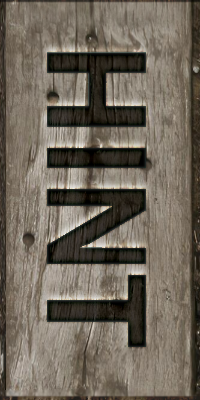
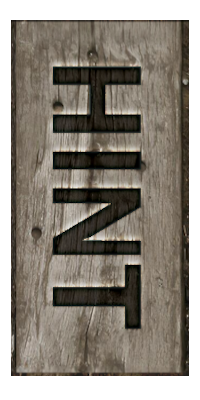
hint button visual success

diff --git a/kiosk/qt_overlay.py b/kiosk/qt_overlay.py
@@ -299,7 +299,7 @@ class Overlay:
 
             # Create a separate window for the button
             cls._button_window = QWidget(cls._window)
-            cls._button_window.setAttribute(Qt.WA_TranslucentBackground)  # Ensure transparency
+            cls._button_window.setAttribute(Qt.WA_TranslucentBackground)
             cls._button_window.setWindowFlags(
                 Qt.FramelessWindowHint |
                 Qt.WindowStaysOnTopHint |
@@ -312,9 +312,9 @@ class Overlay:
             cls._button['scene'] = QGraphicsScene()
             cls._button_view = QGraphicsView(cls._button['scene'], cls._button_window)
 
-            # Define view dimensions
-            width = 550
-            height = 260
+            # Define view dimensions (increased to accommodate shadow)
+            width = 330  # Increased width
+            height = 620  # Increased height
 
             # Configure view
             cls._button_view.setHorizontalScrollBarPolicy(Qt.ScrollBarAlwaysOff)
@@ -322,7 +322,7 @@ class Overlay:
             cls._button_view.setRenderHints(QPainter.Antialiasing | QPainter.SmoothPixmapTransform)
             cls._button_view.setViewportUpdateMode(QGraphicsView.FullViewportUpdate)
             cls._button_view.setFrameStyle(0)
-            cls._button_view.setStyleSheet("background: transparent;")  # Ensure transparent background
+            cls._button_view.setStyleSheet("background: transparent;")
 
             # Set view geometry
             cls._button_view.setGeometry(0, 0, width, height)
@@ -342,7 +342,7 @@ class Overlay:
             cls._button['bg_image_item'] = cls._button['scene'].addPixmap(QPixmap())
 
             # Position button window
-            cls._button_window.setGeometry(340, 290, width, height)
+            cls._button_window.setGeometry(340, 290, width, height) # Adjusted button window size
 
             if cls._parent_hwnd:
                 style = win32gui.GetWindowLong(int(cls._button_window.winId()), win32con.GWL_EXSTYLE)
@@ -374,7 +374,7 @@ class Overlay:
 
             # Convert to pixmap and scale
             button_pixmap = QPixmap.fromImage(qimage).scaled(
-                260, 550, Qt.KeepAspectRatio, Qt.SmoothTransformation
+                240, 530, Qt.KeepAspectRatio, Qt.SmoothTransformation  # Keep adjusted scaling for button
             )
             cls._button['bg_image_item'].setPixmap(button_pixmap)
 
@@ -385,11 +385,14 @@ class Overlay:
                 print("Failed to load shadow image directly")
                 return False
 
-            # Convert to pixmap and scale
+            # Convert to pixmap and scale (larger scaling for shadow)
             shadow_pixmap = QPixmap.fromImage(shadow_qimage).scaled(
-                300, 590, Qt.KeepAspectRatio, Qt.SmoothTransformation
+                330, 620, Qt.KeepAspectRatio, Qt.SmoothTransformation  # Increased shadow size
             )
             cls._button['shadow_item'].setPixmap(shadow_pixmap)
+
+            # Set the origin for rotation to the center of the pixmap
+            cls._button['bg_image_item'].setTransformOriginPoint(button_pixmap.width() / 2, button_pixmap.height() / 2)
 
             # Debug info
             print(f"\nImage Debug:")
@@ -426,8 +429,8 @@ class Overlay:
                         print("Failed to load button images.")
                         return
 
-                # Rotate the view by 90 degrees clockwise
-                cls._button_view.setTransform(QTransform().rotate(90))
+                # Rotate the button image item 90 degrees clockwise
+                cls._button['bg_image_item'].setRotation(360)
 
                 # Get scene and view dimensions
                 scene_rect = cls._button['scene'].sceneRect()
